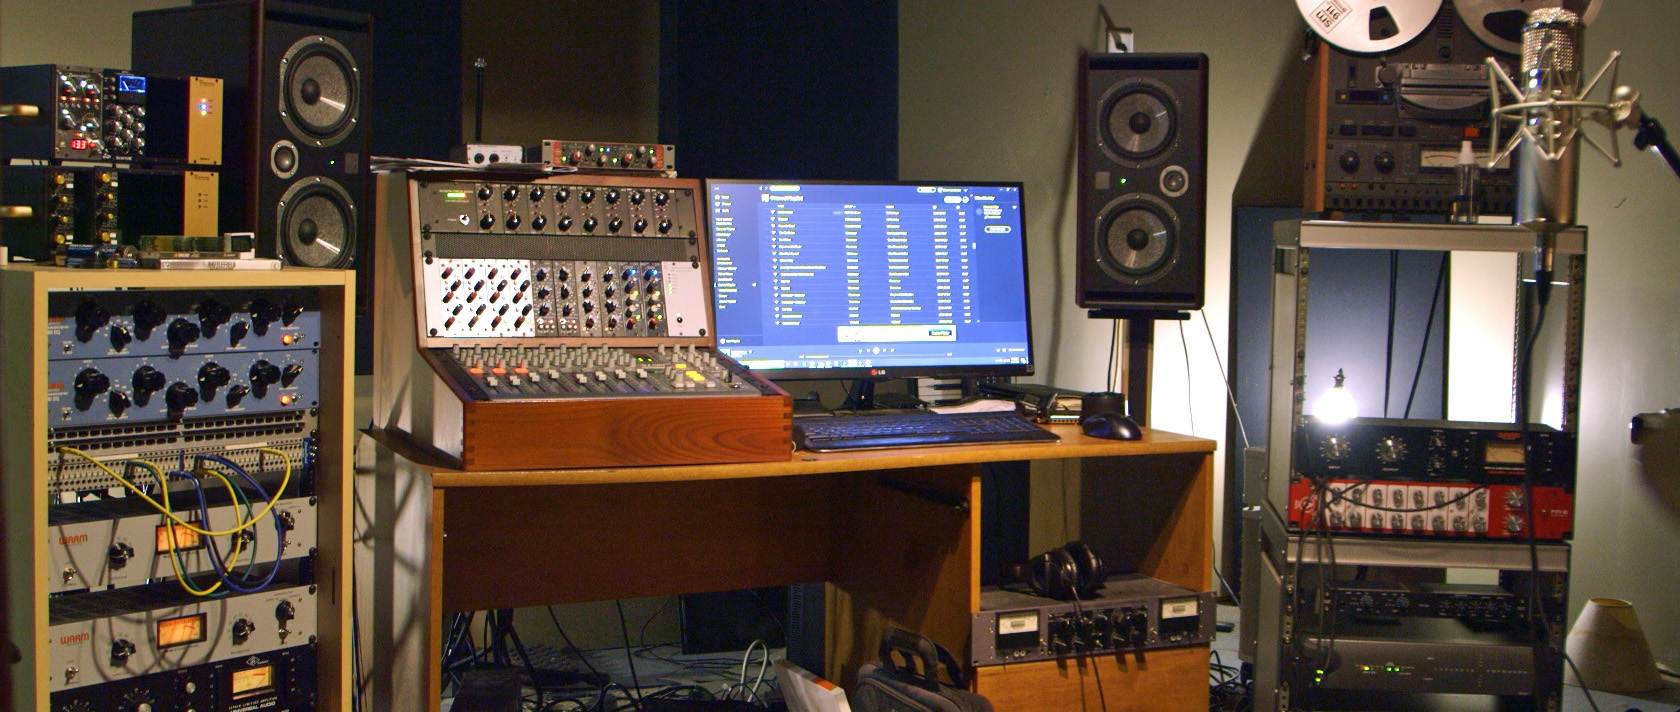
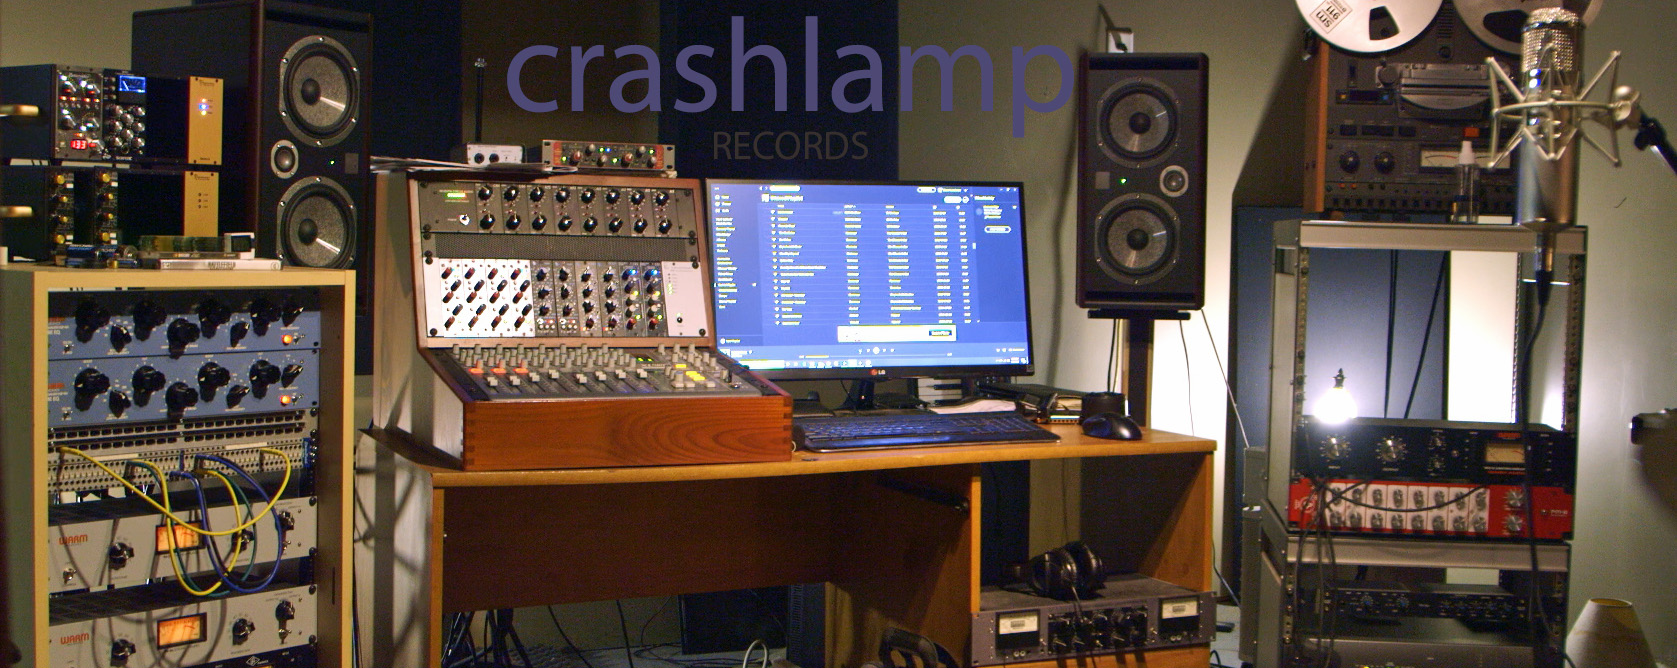
Added code for index.html

diff --git a/index.html b/index.html
@@ -1,0 +1,26 @@
+<!DOCTYPE html>
+<html lang="en">
+<head>
+<meta charset="utf-8">
+<link rel="stylesheet"
+      href="css/app.css">
+<title>crashlamp</title>
+  </head>
+<body bgcolor=#c9d9d9>
+    <span class="container">
+      <img src="pictures/Studio Pic 2_1.2.1.jpg" alt="crashlamp studio picture" height = 250px; border = 3px black;>
+    </span>
+    <span class="menu_bar">
+      <div class="box">Microphones</div>
+      <div class="box">Preamps</div>
+      <div class="box">Compressors</div>
+      <div class="box">Equalizers</div>
+      <div class="box">Instruments/Amps</div>
+      <div class="box">Miscellaneous</div>
+    </span>
+    <div>
+      <h1>Welome to crashlamp.</h1>
+    </div>
+    <p>If you are looking for a studio to record your music and or video at a very reasonable price, crashlamp is here for you. Crashlamp is owned and operated by Shane Landstrom at his home in Rock Island, Illinois. Crashlamp has a wide of high quality microphones, preamp, eq's, compressors and effects. The studio will be opening when it is deemed safe and stay at home orders due to Covid-19 are lifted<p/>
+
+</<body>
